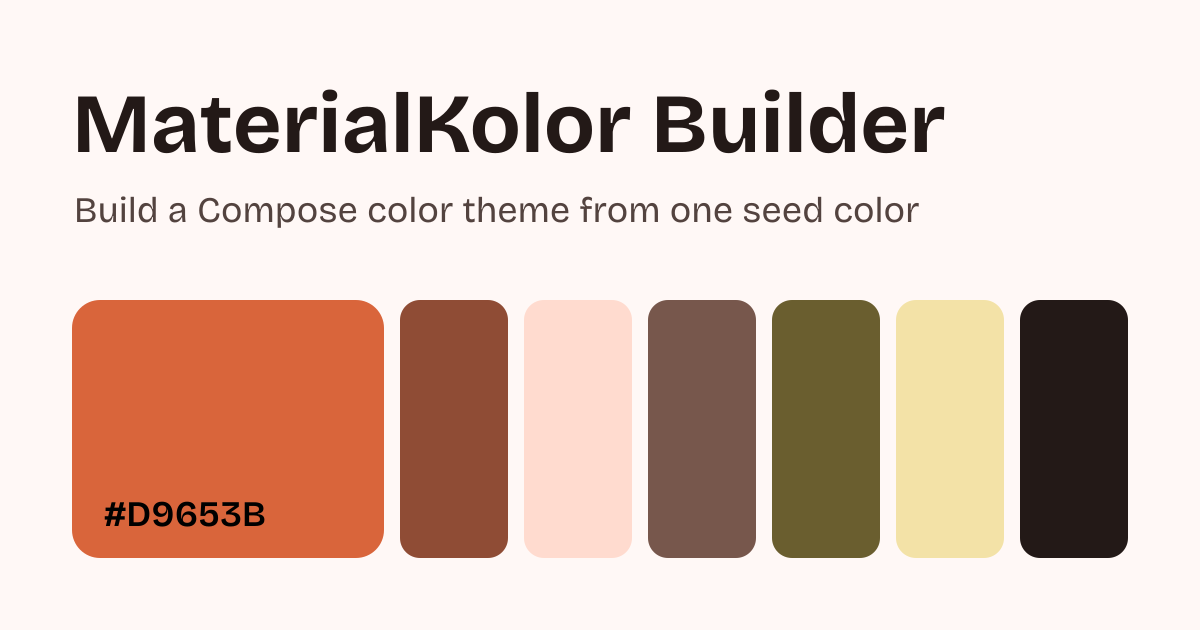
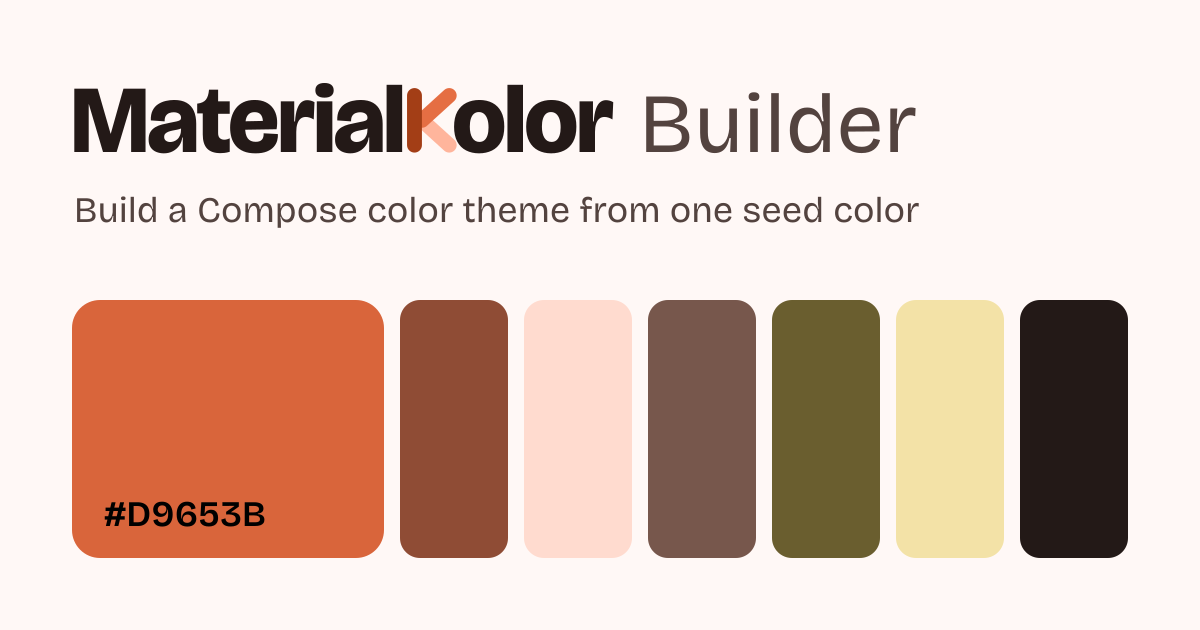
chore(builder): put the new wordmark on the OG card and trim the description

Changed region(s): [[0.0617, 0.1206, 0.8017, 0.2413]]

diff --git a/builder/apps/web/src/webMain/resources/index.html b/builder/apps/web/src/webMain/resources/index.html
@@ -7,7 +7,7 @@
     <title>MaterialKolor Builder</title>
     <meta
       name="description"
-      content="Build a Compose color theme from one seed color or a photo. Preview it in Material 3, Expressive, Unstyled and Fluent, then export code that compiles."
+      content="Build a Compose color theme from one seed color or a photo. Preview it in Material 3, Expressive, Unstyled and Fluent."
     />
     <link rel="canonical" href="https://materialkolor.com/" />
     <meta name="color-scheme" content="light dark" />
@@ -18,7 +18,7 @@
     <meta property="og:title" content="MaterialKolor Builder" />
     <meta
       property="og:description"
-      content="Build a Compose color theme from one seed color or a photo. Preview it in Material 3, Expressive, Unstyled and Fluent, then export code that compiles."
+      content="Build a Compose color theme from one seed color or a photo. Preview it in Material 3, Expressive, Unstyled and Fluent."
     />
     <meta property="og:url" content="https://materialkolor.com/" />
     <meta property="og:image" content="https://materialkolor.com/og-default.png" />
@@ -39,7 +39,7 @@
         "@context": "https://schema.org",
         "@type": "SoftwareApplication",
         "name": "MaterialKolor Builder",
-        "description": "Build a Compose color theme from one seed color or a photo. Preview it in Material 3, Expressive, Unstyled and Fluent, then export code that compiles.",
+        "description": "Build a Compose color theme from one seed color or a photo. Preview it in Material 3, Expressive, Unstyled and Fluent.",
         "url": "https://materialkolor.com/",
         "image": "https://materialkolor.com/og-default.png",
         "applicationCategory": "DeveloperApplication",

diff --git a/builder/e2e/tests/shell.spec.ts b/builder/e2e/tests/shell.spec.ts
@@ -286,7 +286,7 @@ test.describe('head', () => {
   const origin = 'https://materialkolor.com';
   const description =
     'Build a Compose color theme from one seed color or a photo. Preview it in Material 3, Expressive, Unstyled and ' +
-    'Fluent, then export code that compiles.';
+    'Fluent.';
   const imageAlt = 'MaterialKolor Builder, with the seed color #D9653B and six colors of the theme it makes';
   /** A selector for one tag, the attribute that carries its value, and the value. */
   const tags: [string, string, string][] = [
